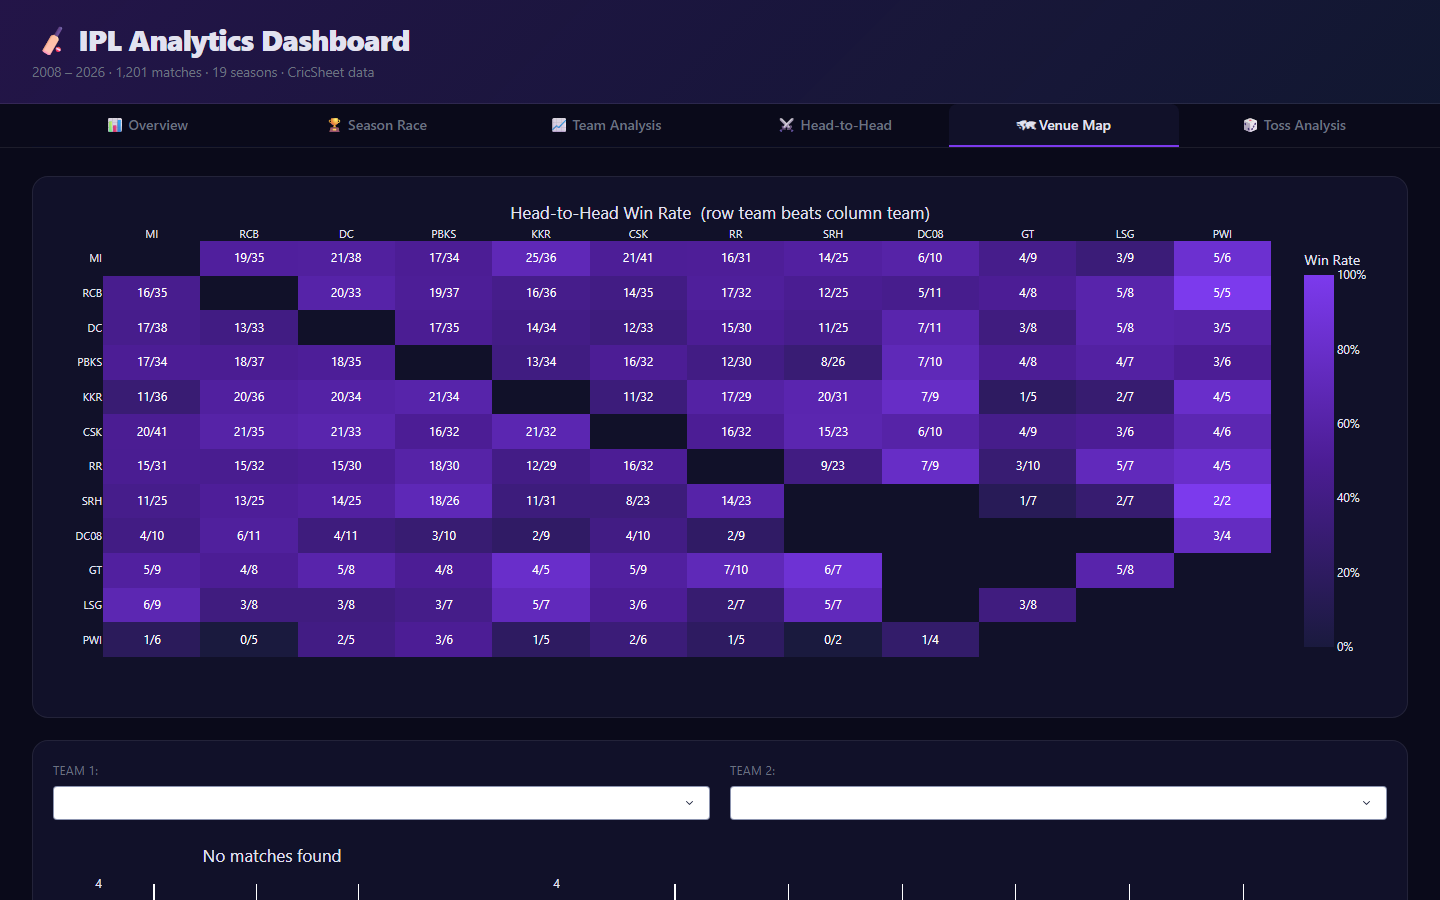
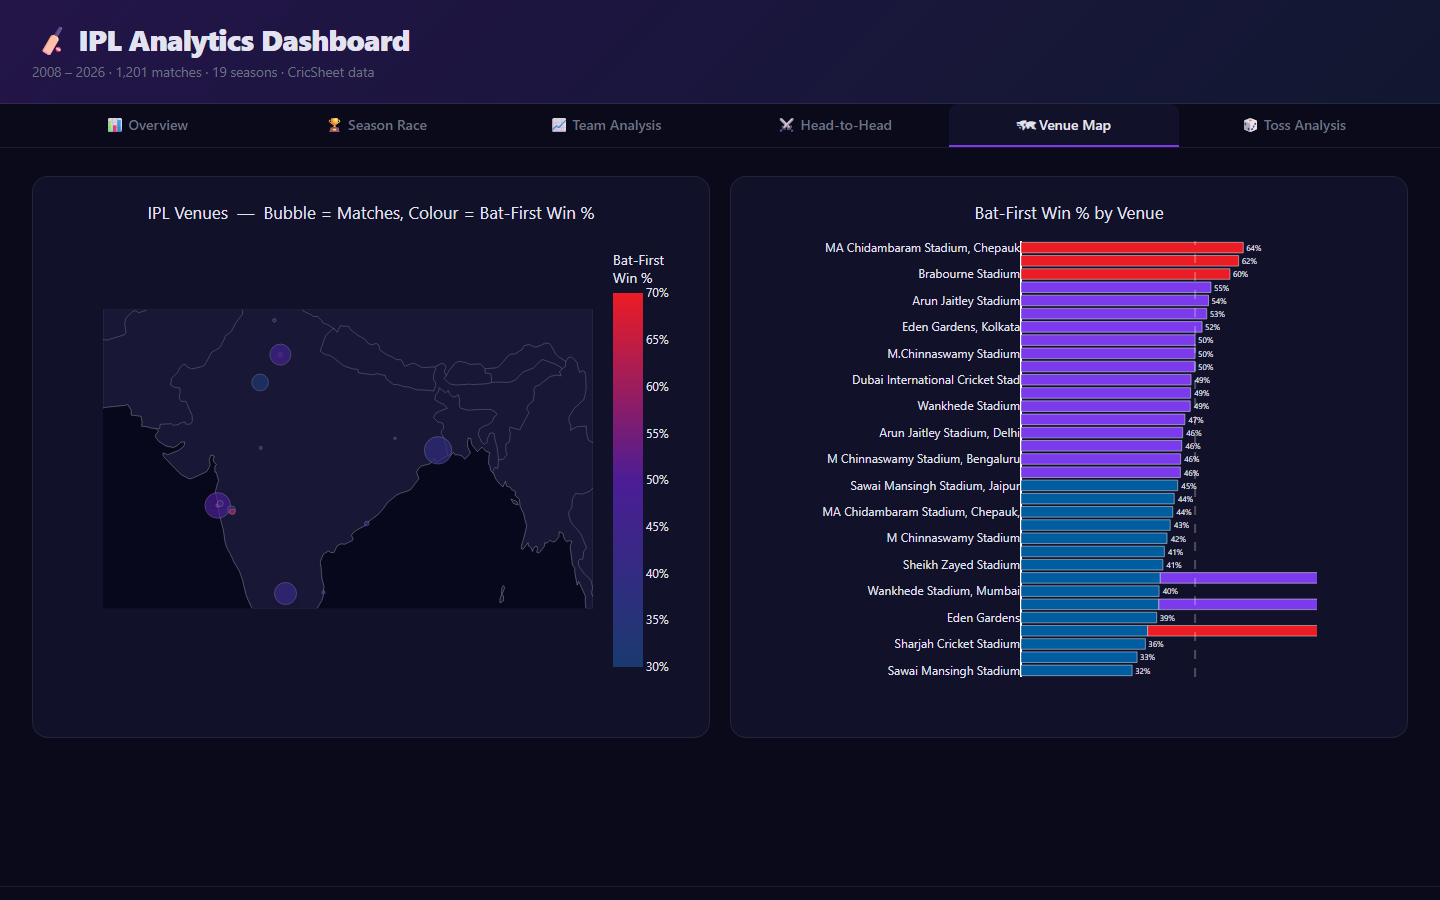
fix: correct venue map screenshot and fix fig_venue_bar margin conflict
The venue map tab was silently failing due to a margin kwarg conflict
in fig_venue_bar (same issue as fig_captain_wins). Fixed by merging
margin into a layout dict before unpacking. Retook all 6 screenshots
with correct index-based tab navigation.

diff --git a/dashboard.py b/dashboard.py
@@ -643,11 +643,11 @@ def fig_venue_bar():
         customdata=df_v["n"],
     ))
     fig.add_vline(x=0.5, line=dict(color="rgba(255,255,255,0.25)", dash="dash"))
-    fig.update_layout(**PLOTLY_LAYOUT, height=520,
+    layout = {**PLOTLY_LAYOUT, "margin": dict(l=270, r=70, t=44, b=40)}
+    fig.update_layout(**layout, height=520,
         xaxis=dict(showgrid=False, showticklabels=False, range=[0, 0.85]),
         yaxis=dict(showgrid=False),
         title=dict(text="Bat-First Win % by Venue", x=0.5),
-        margin=dict(l=270, r=70, t=44, b=40),
     )
     return fig
 